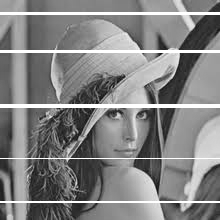
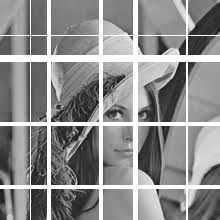
update remove stripes method

Changed region(s): [[0.0, 0.0, 1.0, 1.0]]

diff --git a/edu/slavik/interstripation/image/imageHelper.py b/edu/slavik/interstripation/image/imageHelper.py
@@ -34,8 +34,21 @@ def saveImageData(data, fileName: str, imageFormat='PNG'):
     imageData.save('../resources/' + fileName, imageFormat)
 
 
-# def removeStripes(image, countV, countH, maxWidth, maxHeight):
-#    for i in range(image.shape[0]):
+def removeStripes(imageData, countV, countH, maxWidth, maxHeight):
+    """
+    Delete horizontal and vertical stripes from image
+
+    :param imageData: initial image data
+    :param countV:    count of vertical stripes
+    :param countH:    count of horizontal stripes
+    :param maxWidth:  maximum value of width of vertical stripes
+    :param maxHeight: maximum value of height of horizontal stripes
+    :return: image with removed stripes
+    """
+    imageData = removeVerticalStripes(imageData, countV, maxWidth)
+    imageData = removeHorizontalStripes(imageData, countH, maxHeight)
+    return imageData
+
 
 def removeVerticalStripes(imageData, count, maxWidth):
     """
